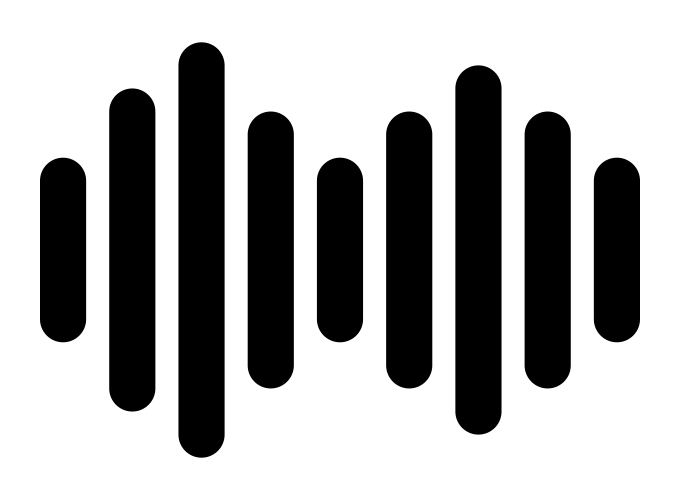
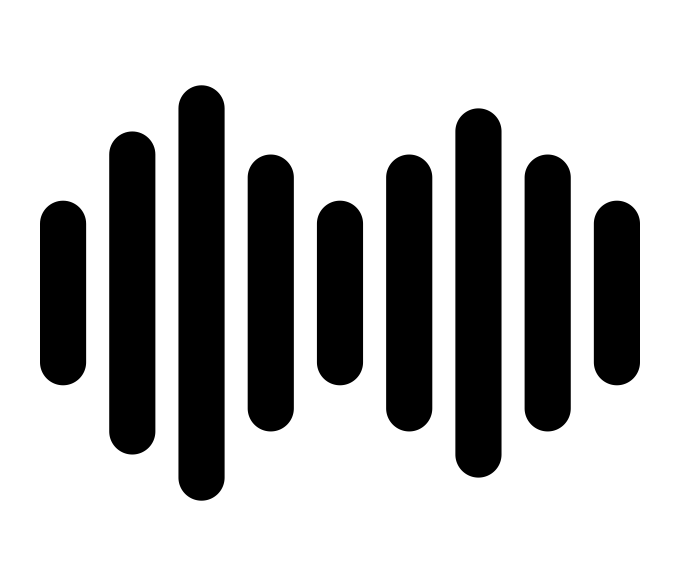
Spotify acabado

diff --git a/Spotify/style.css b/Spotify/style.css
@@ -1,29 +1,243 @@
 HTML,
 body {
   margin: 0;
-  background-color: black;
+  padding: 0;
+}
+/*CSS de Navbar*/
+#navBar {
+  background-color: white;
+  display: flex;
+  justify-content: space-between;
+  width: 100%;
+}
+#logoSpotify {
+  width: 100px;
+  padding-left: 30px;
+  margin-top: 10px;
+  margin-bottom: 10px;
+}
+
+.linkNavBar {
+  font-size: clamp(10px, 2.5vw, 36px);
+  text-decoration: none;
+  color: black;
+}
+
+#navBarSpotifyLinks {
+  display: flex;
+  width: 100%;
+  justify-content: space-around;
+  align-items: center;
+}
+
+/*Div principal de imagen de presentación*/
+#musicForEveryone {
+  position: relative;
+  width: 100%;
+  text-align: center;
+}
+
+#imgMusicForEveryone {
+  width: 100%;
+}
+
+#textoMusicForEveryone {
+  position: absolute;
+  top: 40%;
+  left: 48.7%;
+  transform: translate(-50%, -50%);
+  color: white;
+  font-size: 2.5vw;
+}
+
+#descripcionMusicForEveryone {
+  position: absolute;
+  top: 50%;
+  left: 48.5%;
+  transform: translate(-50%, -50%);
+  color: white;
+  font-size: 2vw;
+}
+/*CSS para What's on spotify*/
+
+#whatsOnSpotify {
+  display: flex;
+  align-items: center;
+  flex-direction: column;
+}
+#whatsSpotifyH2 {
+  border-bottom: 3px solid #1db954;
+  font-size: clamp(10px, 3vw, 36px);
+}
+#divSpotifyThings {
+  display: flex;
+  justify-content: space-around;
+  width: 100%;
+  text-align: center;
+}
+.spotifyThings {
+  width: 33%;
+}
+.thingsIcon {
+  padding: 0;
+  width: 20%;
+}
+#whatsSpotifyH3 {
+  color: #1db954;
+  font-size: clamp(10px, 3vw, 36px);
+  padding-top: 0;
+}
+
+.whatsSpotifyTEXT {
+  font-size: 1.5vw;
+  margin-top: 0px;
+}
+/*Parte final de la pagina web*/
+#divFinalPart {
+  background-color: rgb(10, 184, 80);
+  width: 100%;
+  height: 100%;
+  display: flex;
+  flex-direction: column;
+}
+
+#kenyWestTitle {
+  color: white;
+  margin-left: 4.5%;
+  font-size: clamp(10px, 4vw, 36px);
+  border-bottom: 4px solid white;
+  width: 48%;
+}
+
+#divFinalContenido {
+  display: flex;
+  justify-content: space-around;
+  width: 100%;
+  text-align: center;
+}
+
+#divFinalOptions {
+  height: 100%;
+  width: 30%;
+  text-align: left;
+  color: white;
+  h3 {
+    font-size: clamp(10px, 3vw, 36px);
+    margin-left: 10%;
+  }
+
+  p {
+    font-size: clamp(10px, 1.5vw, 36px);
+    margin-left: 10%;
+  }
+}
+
+#spotifyIcon {
+  height: 30vh;
+  width: 30%;
+}
+#spotifyIconWhite {
+  width: 30%;
+  padding-top: 50%;
+  margin-left: -40%;
+}
+
+#kanyeWestImg {
+  height: 80vh;
+  width: 25%;
+  margin-right: 10%;
+}
+#spotifyApp {
+  width: 90%;
+  height: 100%;
 }
 
 @media (min-width: 1440px) {
-  #navBar {
-    background-color: white;
+}
+
+@media (min-width: 768px) and (max-width: 1440px) {
+}
+
+@media (max-width: 768px) {
+  /*NavBar*/
+  #navBarSpotifyLinks {
     display: flex;
-    justify-content: space-between;
-  }
-
-  #logoSpotify {
-    width: 200px;
-    padding-left: 30px;
-    margin-top: 10px;
-    margin-bottom: 10px;
-  }
-
-  #navBarSpotifyLinks{
-    background-color: aqua;
     width: 40vw;
+    justify-content: space-around;
+    align-items: center;
+    flex-direction: column;
+  }
+  #navBar {
+    flex-direction: column;
     align-items: center;
   }
-  .linkNavBar {
-    font-size: 30px;
+
+  /*CSS para imagen de presentacion musicForEveryone*/
+  #descripcionMusicForEveryone {
+    position: absolute;
+    top: 51%;
+    left: 49.2%;
+    transform: translate(-50%, -50%);
+    color: white;
+    font-size: 2vw;
+  }
+  /*CSS para Spotify Things*/
+
+  #divSpotifyThings {
+    display: flex;
+    flex-direction: column;
+    align-items: center;
+  }
+
+  .spotifyThings {
+    width: 100%;
+  }
+
+  /*Parte final de la pagina web*/
+  #divFinalPart {
+    display: flex;
+    align-items: center;
+    flex-direction: column;
+  }
+
+  #divFinalContenido {
+    display: flex;
+    align-items: center;
+    flex-direction: column;
+  }
+
+  #divFinalOptions {
+    text-align: center;
+    color: white;
+    h3 {
+      font-size: clamp(10px, 3vw, 36px);
+    }
+
+    p {
+      font-size: clamp(10px, 1.5vw, 36px);
+    }
+  }
+
+  #spotifyIcon {
+   
+    width: 100%;
+    display: flex;
+    justify-content: center;
+    align-items: flex-end;
+    margin-left: 40%;
+    margin-bottom: 5%;
+  }
+  #spotifyIconWhite {
+    width: 20%;
+  }
+
+  #kanyeWestImg {
+    height: 80vh;
+    width: 100%;
+  }
+  #spotifyApp {
+    width: 50%;
+    height: 90%;
+    padding-left: 10%;
   }
 }

diff --git a/Spotify/index.html b/Spotify/index.html
@@ -9,10 +9,15 @@
   </head>
   <body>
     <header>
+      <!--Navbar -->
       <nav id="navBar">
+        <!--Contenedor para logo-->
         <div id="navBarLogo">
-          <a href="index.html"><img src="images/spotify-logo.png" alt="" id="logoSpotify" /></a>
+          <a href="index.html"
+            ><img src="images/spotify-logo.png" alt="" id="logoSpotify"
+          /></a>
         </div>
+        <!--Contenedor para links-->
         <div id="navBarSpotifyLinks">
           <a href="premium.html" class="linkNavBar">Premium</a>
           <a href="help.html" class="linkNavBar">Help</a>
@@ -21,14 +26,72 @@
         </div>
       </nav>
     </header>
-    Premium Discover Help Download Music for everyone. Spotify is now free on
-    mobile, tablet and computer. Listen to the right music, wherever you are.
-    What’s on Spotify? Millions of Songs There are millions of songs on Spotify
-    HD Music Listen to music as if you were listening live Stream Everywhere
-    Stream music on your smartphone, tablet or computer It’s as yeezy as Kanye
-    West. Search Know what you want to listen to? Just search and hit play.
-    Browse Check out the latest charts, brand new releases and great playlists
-    for right now. Discover Enjoy new music every Monday with your own personal
-    playlist. Or sit back and enjoy Radio.
+    <!--Contenedor para presentacion incial de la pagina web-->
+    <div id="musicForEveryone">
+      <img src="images/landing.jpg" id="imgMusicForEveryone" />
+      <div id="textoMusicForEveryone">
+        <h1><b>Music for everyone.</b></h1>
+      </div>
+      <div id="descripcionMusicForEveryone">
+        <p>
+          Spotify is now free on mobile, tablet and computer.
+          <br />
+          Listen to the right music, where you are.
+        </p>
+      </div>
+    </div>
+
+    <!--Div de What's on spotify-->
+    <div id="whatsOnSpotify">
+      <h2 id="whatsSpotifyH2">What's on Spotify?</h2>
+      <div id="divSpotifyThings">
+        <div id="millonsongs" class="spotifyThings">
+          <img src="images/music-icon.png" alt="" class="thingsIcon" />
+          <h3 id="whatsSpotifyH3">Millons of songs</h3>
+          <p class="whatsSpotifyTEXT">There are millions of songs on Spotify</p>
+        </div>
+        <div id="hdmusic" class="spotifyThings">
+          <img src="images/high-quality-icon.png" alt="" class="thingsIcon" />
+          <h3 id="whatsSpotifyH3">HD Music</h3>
+          <p class="whatsSpotifyTEXT">
+            Listen to music as if you were listening live
+          </p>
+        </div>
+        <div id="devices" class="spotifyThings">
+          <img src="images/devices-icon.png" alt="" class="thingsIcon" />
+          <h3 id="whatsSpotifyH3">Stream Everywhere</h3>
+          <p class="whatsSpotifyTEXT">
+            Stream music on your smarthphone, tablet or computer
+          </p>
+        </div>
+      </div>
+    </div>
+    <!--Div parte final web-->
+    <div id="divFinalPart">
+      <h2 id="kenyWestTitle">It's as yeezy as Kanye West.</h2>
+      <div id="divFinalContenido">
+        <div id="divFinalOptions">
+          <h3>Search</h3>
+          <p>Know what you want to listen to?</p>
+          <p>Just search adn hit play</p>
+          <br />
+          <h3>Browse</h3>
+          <p>Check out the latest charts,</p>
+          <p>brand new releases and graeat</p>
+          <p>playlist for right now</p>
+          <br />
+          <h3>Discover</h3>
+          <p>Enjoy new music every Monday</p>
+          <p>with your own personal playlist</p>
+          <p>Or sit back and enjoy Radio</p>
+        </div>
+        <div id="spotifyIcon">
+          <img src="images/spotify-icon-white.png" alt="" id="spotifyIconWhite">
+        </div>
+        <div id="kanyeWestImg">
+          <img src="images/spotify-app.jpg" alt="" id="spotifyApp">
+        </div>
+      </div>
+    </div>
   </body>
 </html>
